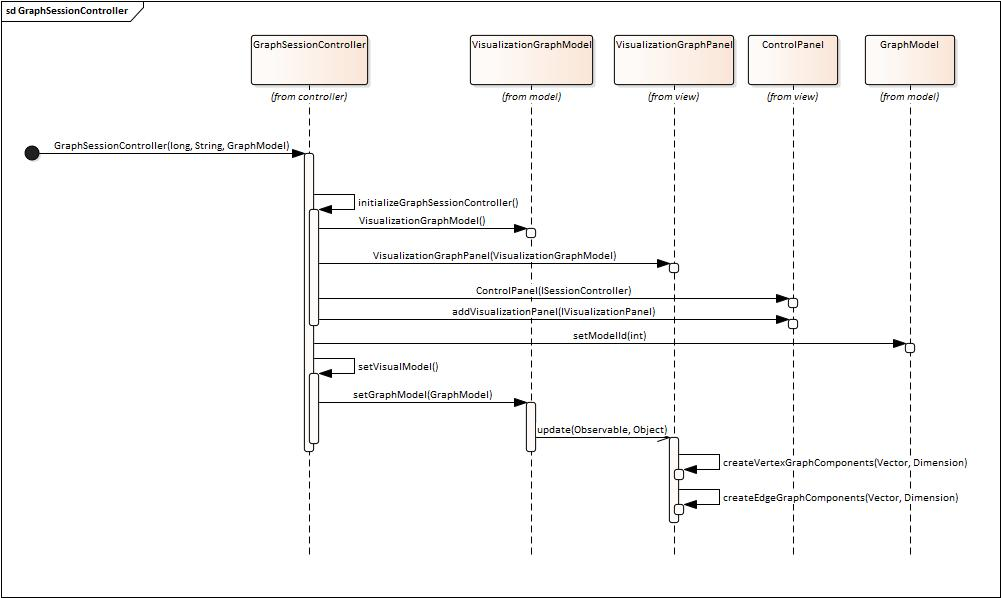
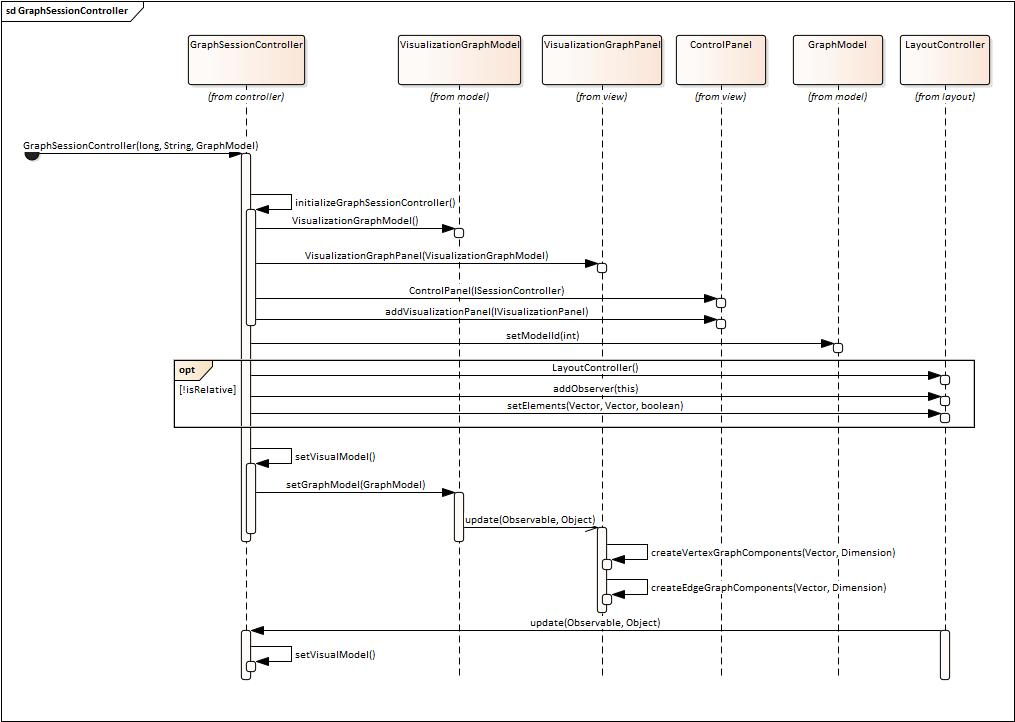
adds layoutcontroller flow to sequence diagram

diff --git a/GVS_Documentation.tex b/GVS_Documentation.tex
@@ -284,7 +284,8 @@ eprint=false
 	\end{figure}
 
 	\subsubsection{GraphSessionController} \label{sssec:sessioncontroller}
-	Der \textit{GraphSessionController} wird vom \textit{ModelBuilder} und vom \textit{Persistor} angestossen, wenn ein oder mehrere neue Graphen geparsed wurden. Der \textit{GraphSessionController} ist dafür zuständig, diese Graphen in eine neue oder bestehende Session einzufügen. Dabei unterscheidet sich der Programmablauf kaum. Übersichtshalber ist nur der Fall ''ein einzelner neuer Graph wurde empfangen'' abgebildet.
+	Der \textit{GraphSessionController} wird vom \textit{ModelBuilder} und vom \textit{Persistor} angestossen, wenn ein oder mehrere neue Graphen geparsed wurden. Der \textit{GraphSessionController} ist dafür zuständig diese Graphen in eine neue oder bestehende Session einzufügen. Dabei unterscheidet sich der Programmablauf kaum. Übersichtshalber ist nur der Fall ''ein einzelner neuer Graph wurde empfangen'' abgebildet.\\
+	Für Graphen die keine fix positionierte Vertices haben, wird in einem weiteren Schritt der \textit{LayoutController} aufgerufen. Dieser steuert die Funktionalität der PhysicsEngine. Der \textit{GraphSessionController} wird  per Observer-Beziehung (siehe Glossar: \gls{observer}) informiert, wenn die PhysicsEngine die Berechnung der Positionen abgeschlossen hat.\\
 	Der \textit{GraphSessionController} setzt den neuen Graphen als aktuellen Graphen auf dem \textit{VisualizationGraphModel}. Dieses informiert per Observer-Beziehung (siehe Glossar: \gls{observer}) das \textit{VisualiztionGraphPanel}, welches die für die Darstellung benötigten Vertex und Edge Komponenten erstellt.
 	\begin{figure}[h!]
 		\centering
